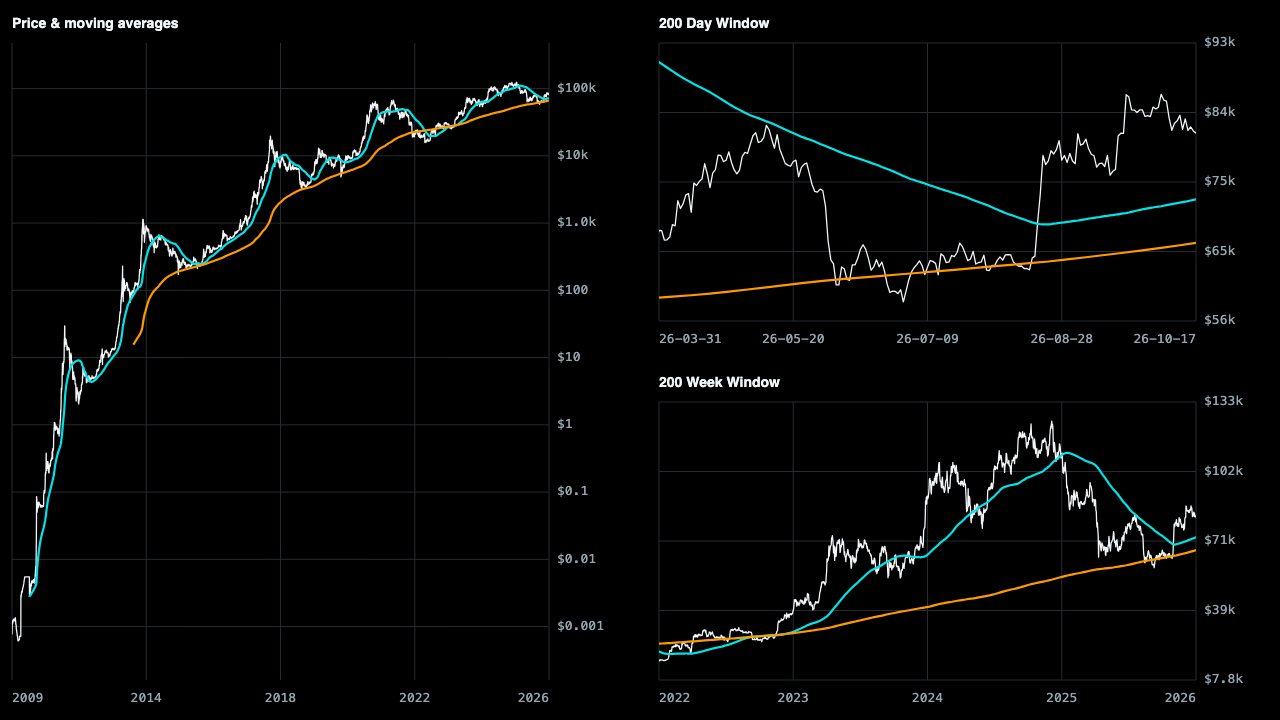
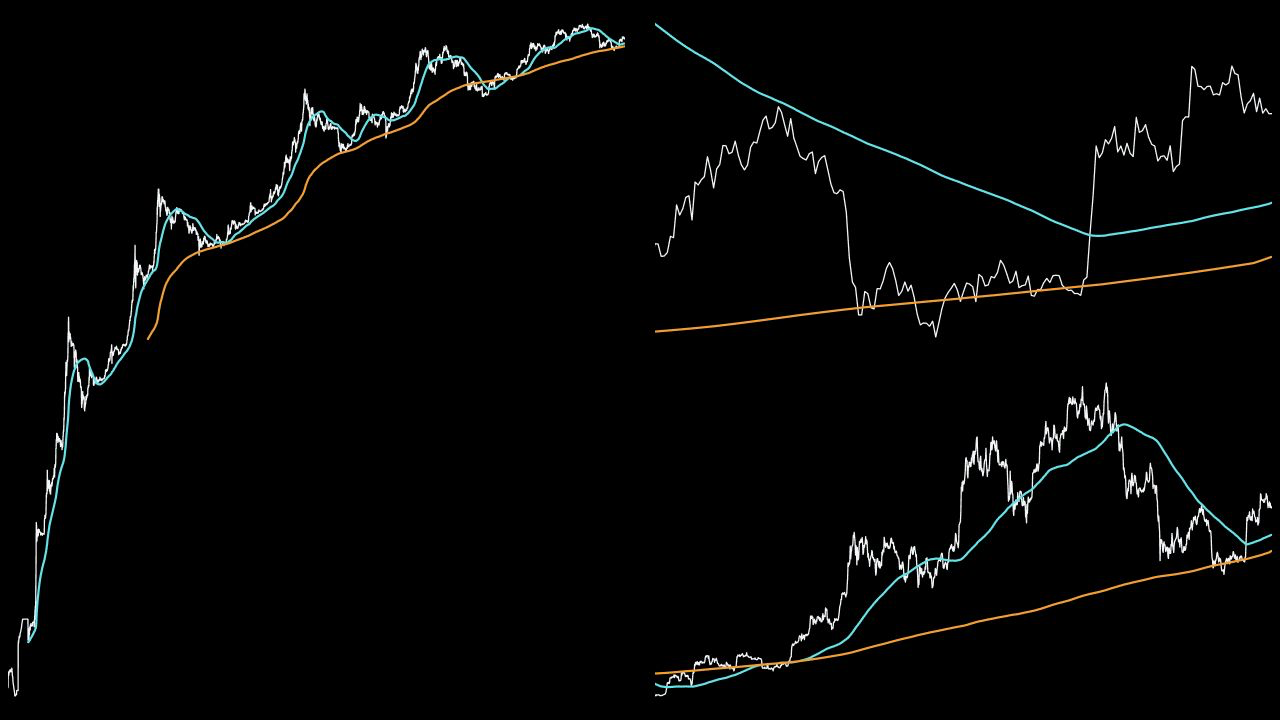
Remove axes and labels from moving average grid preview

diff --git a/webapps/moving_average/moving_average_charts.js b/webapps/moving_average/moving_average_charts.js
@@ -176,7 +176,7 @@
     return [];
   }
   function panel(ctx, rect, options) {
-    const { model, series, lines, endIndex, startTime, scale = "linear", theme = "dark", title = "", hoverIndex = -1 } = options;
+    const { model, series, lines, endIndex, startTime, scale = "linear", theme = "dark", title = "", hoverIndex = -1, compact = false } = options;
     const rows = model.rows, colors = palette(theme);
     const activeIndices = lines.flatMap((line, index) => line.type === "none" ? [] : [index]);
     const endTime = rows[endIndex].time, minTime = Math.min(startTime, endTime - DAY);
@@ -184,7 +184,9 @@
     ctx.save(); ctx.translate(rect.x || 0, rect.y || 0);
     ctx.fillStyle = colors.bg; ctx.fillRect(0, 0, rect.width, rect.height);
     const fontSize = Math.max(10, Math.min(13, rect.width / 40));
-    const plot = C.getPlotRect(rect.width, rect.height, { left: 12, right: rect.width < 370 ? 65 : 84, top: title ? 35 : 16, bottom: 32 });
+    const plot = C.getPlotRect(rect.width, rect.height, compact
+      ? { left: 8, right: 8, top: 0, bottom: 0 }
+      : { left: 12, right: rect.width < 370 ? 65 : 84, top: title ? 35 : 16, bottom: 32 });
     let min = Infinity, max = -Infinity;
     function include(v) { if (Number.isFinite(v) && v > 0) { min = Math.min(min, v); max = Math.max(max, v); } }
     for (let i = startIndex; i <= endIndex; i++) {
@@ -214,22 +216,24 @@
       }
       return 10 ** ((low + high) / 2);
     }
-    const tickCount = Math.max(3, Math.min(6, Math.floor(plot.height / 55)));
-    if (mix === 0 || mix === 1) {
-      const logarithmic = mix === 1, axis = logarithmic ? logAxis : linearAxis;
-      const ticks = scaleTicks(axis, logarithmic, tickCount);
-      const axisTicks = logarithmic ? ticks.map(Math.log10) : ticks;
-      C.drawGridLines(ctx, axisTicks, axis.min, axis.max, plot, { color: colors.grid });
-      C.drawRightAxisLabels(ctx, axisTicks, axis.min, axis.max, plot, (v) => axisMoney(logarithmic ? 10 ** v : v), { color: colors.muted, font: `${fontSize}px IBM Plex Mono, monospace` });
-    } else {
-      drawMorphAxis(ctx, morphTicks(scaleTicks(linearAxis, false, tickCount), scaleTicks(logAxis, true, tickCount), mix, y), plot, colors, fontSize);
-    }
-    ctx.font = `${fontSize}px IBM Plex Mono, monospace`; ctx.fillStyle = colors.muted;
-    const dateTicks = dateAxisTicks(minTime, endTime, plot, ctx);
-    ctx.textAlign = "center";
-    for (const tick of dateTicks) {
-      ctx.strokeStyle = colors.grid; ctx.beginPath(); ctx.moveTo(tick.x, plot.top); ctx.lineTo(tick.x, plot.bottom); ctx.stroke();
-      ctx.fillText(tick.label, tick.labelX, plot.bottom + 22);
+    if (!compact) {
+      const tickCount = Math.max(3, Math.min(6, Math.floor(plot.height / 55)));
+      if (mix === 0 || mix === 1) {
+        const logarithmic = mix === 1, axis = logarithmic ? logAxis : linearAxis;
+        const ticks = scaleTicks(axis, logarithmic, tickCount);
+        const axisTicks = logarithmic ? ticks.map(Math.log10) : ticks;
+        C.drawGridLines(ctx, axisTicks, axis.min, axis.max, plot, { color: colors.grid });
+        C.drawRightAxisLabels(ctx, axisTicks, axis.min, axis.max, plot, (v) => axisMoney(logarithmic ? 10 ** v : v), { color: colors.muted, font: `${fontSize}px IBM Plex Mono, monospace` });
+      } else {
+        drawMorphAxis(ctx, morphTicks(scaleTicks(linearAxis, false, tickCount), scaleTicks(logAxis, true, tickCount), mix, y), plot, colors, fontSize);
+      }
+      ctx.font = `${fontSize}px IBM Plex Mono, monospace`; ctx.fillStyle = colors.muted;
+      const dateTicks = dateAxisTicks(minTime, endTime, plot, ctx);
+      ctx.textAlign = "center";
+      for (const tick of dateTicks) {
+        ctx.strokeStyle = colors.grid; ctx.beginPath(); ctx.moveTo(tick.x, plot.top); ctx.lineTo(tick.x, plot.bottom); ctx.stroke();
+        ctx.fillText(tick.label, tick.labelX, plot.bottom + 22);
+      }
     }
     ctx.save(); ctx.beginPath(); ctx.rect(plot.left, plot.top, plot.width, plot.height); ctx.clip();
     function draw(getValue, color, unit, width) {
@@ -251,11 +255,11 @@
     }
     draw((i) => rows[i].price, colors.fg, null, 1.3);
     activeIndices.forEach((i) => draw((j) => series[i]?.[j], colors.lines[i], lines[i].unit, 2.2));
-    if (hoverIndex >= 0 && hoverIndex <= endIndex && rows[hoverIndex].time >= minTime) {
+    if (!compact && hoverIndex >= 0 && hoverIndex <= endIndex && rows[hoverIndex].time >= minTime) {
       ctx.strokeStyle = colors.hover; ctx.lineWidth = 1; ctx.setLineDash([3, 3]); ctx.beginPath(); ctx.moveTo(x(rows[hoverIndex].time), plot.top); ctx.lineTo(x(rows[hoverIndex].time), plot.bottom); ctx.stroke();
     }
     ctx.restore();
-    if (title) { ctx.fillStyle = colors.fg; ctx.font = "600 14px Space Grotesk, sans-serif"; ctx.textAlign = "left"; ctx.fillText(title, 12, 20, rect.width - 24); }
+    if (!compact && title) { ctx.fillStyle = colors.fg; ctx.font = "600 14px Space Grotesk, sans-serif"; ctx.textAlign = "left"; ctx.fillText(title, 12, 20, rect.width - 24); }
     ctx.restore();
     return { plot, startTime: minTime, endTime, endIndex, scaleMix: mix, valueToY: y, yToValue,
       yPadding: { top: y(dataMax) - plot.top, bottom: plot.bottom - y(dataMin) } };
@@ -318,7 +322,7 @@
     }
     layouts.forEach((rect, position) => {
       const lineIndex = activeIndices[position - 1], line = lines[lineIndex];
-      panel(ctx, rect, { model, lines, series, endIndex, theme, scale: scales[position ? lineIndex + 1 : 0],
+      panel(ctx, rect, { model, lines, series, endIndex, theme, compact, scale: scales[position ? lineIndex + 1 : 0],
         startTime: position ? M.windowStart(end.time, line.period, line.unit) : model.rows[startIndex].time,
         title: position ? windowTitle(line) : `Price & moving average${activeIndices.length === 1 ? "" : "s"}` });
     });

diff --git a/webapps/moving_average/preview.html b/webapps/moving_average/preview.html
@@ -9,7 +9,7 @@
   <script src="../shared/dashboard_charting.js"></script>
   <script src="../shared/bitcoin_spot_price.js"></script>
   <script src="moving_average_model.js"></script>
-  <script src="moving_average_charts.js"></script>
+  <script src="moving_average_charts.js?v=20261017-preview-series"></script>
 </head>
 <body><canvas id="movingAveragePreview" role="img" aria-label="Bitcoin price, 200-day and 200-week moving averages"></canvas><script src="preview_app.js"></script></body>
 </html>

diff --git a/webapps/moving_average/README.md b/webapps/moving_average/README.md
@@ -4,6 +4,9 @@ This dashboard uses the existing published `assets/daily_price.csv` and
 `assets/daily_price_metadata.json`, plus the shared browser-side Bitcoin spot
 feed. It does not introduce a producer, copied dataset, or scheduler. The same
 calculation and data validation module serves the dashboard and homepage preview.
+The homepage grid preview shows only the chart series, without grid lines,
+labels, ticks, or panel titles, and does not reserve space for those decorations.
+The full dashboard and exports retain their axes and labels.
 
 ## Calculation semantics
 

diff --git a/DASHBOARD_TEMPLATE.md b/DASHBOARD_TEMPLATE.md
@@ -99,6 +99,10 @@ Updated timestamp KPIs should use the standard shared controller:
 
 ## Behavior Expectations
 
+Homepage grid previews show chart series without grid lines, labels, ticks, or
+panel titles. Remove the margins reserved for those decorations while keeping
+the full dashboard and exports unchanged.
+
 New dashboards should match existing UOA/DCA behavior:
 
 - custom calendar with year and month selection
